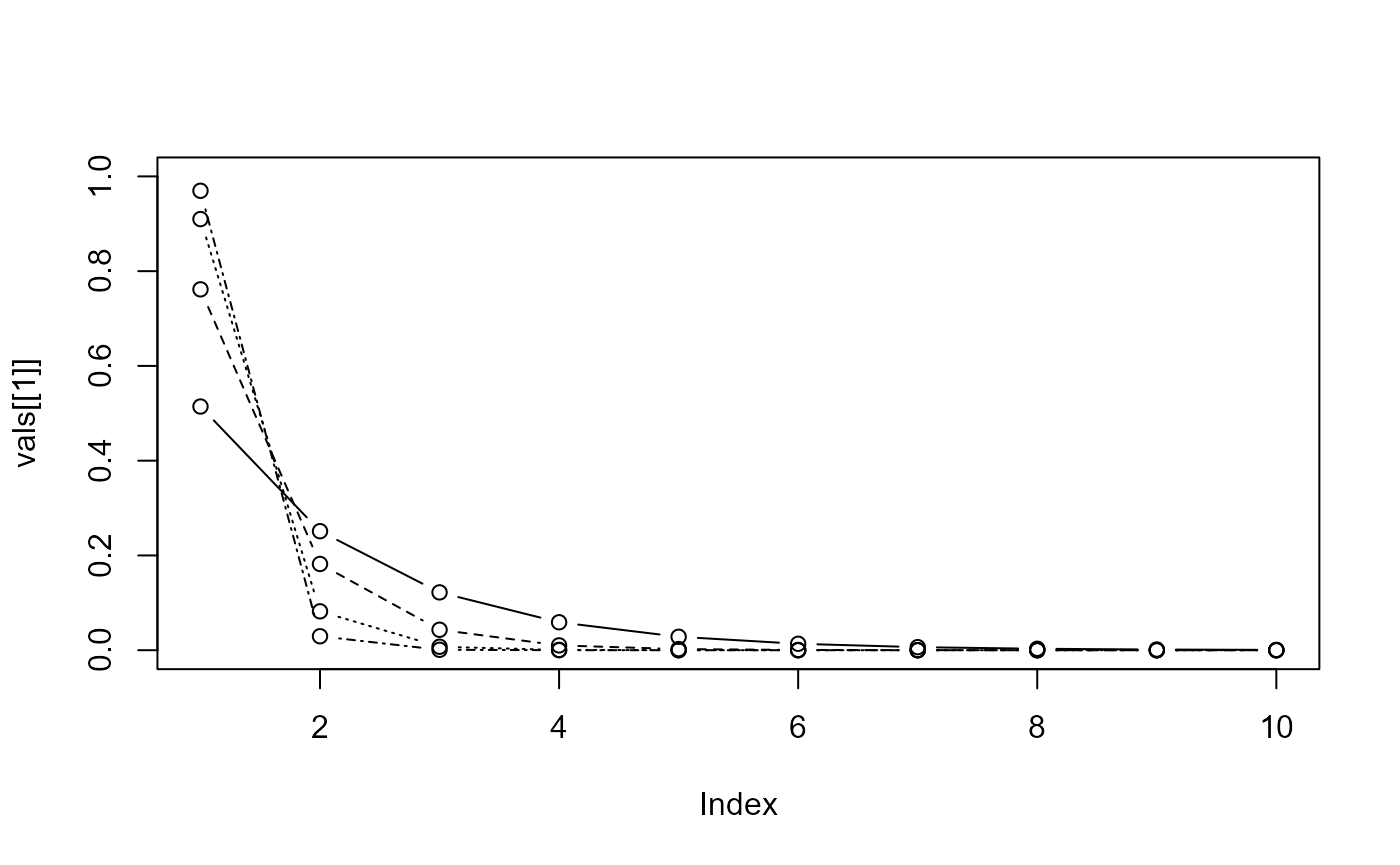
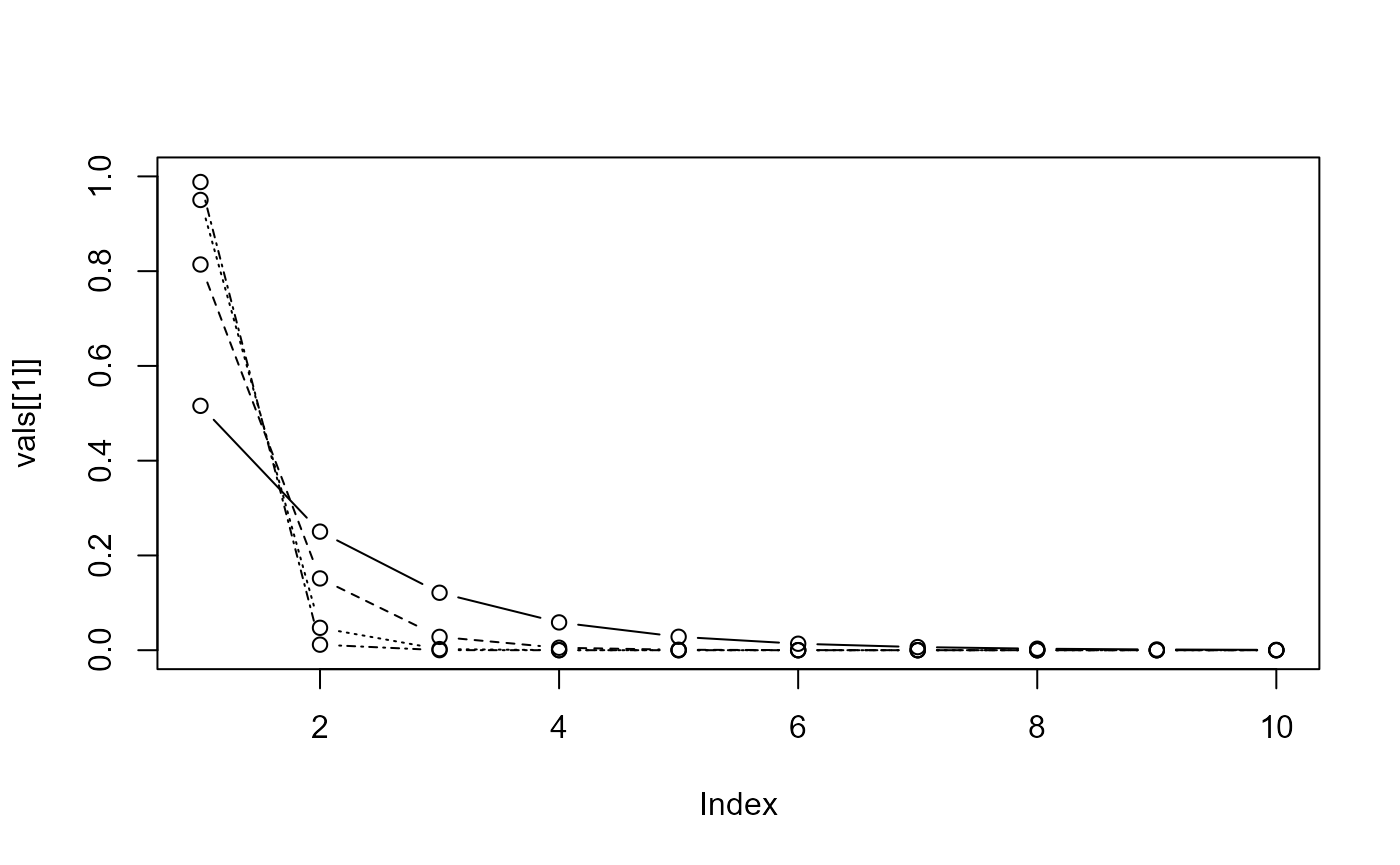
Update vignettes

Changed region(s): [[0.1843, 0.5306, 0.43, 0.7491], [0.1229, 0.1873, 0.1843, 0.4682]]

diff --git a/docs/articles/betabinprior.html b/docs/articles/betabinprior.html
@@ -67,7 +67,7 @@
                         <h4 data-toc-skip class="author">Ville
 Karhunen</h4>
             
-            <h4 data-toc-skip class="date">2022-10-13</h4>
+            <h4 data-toc-skip class="date">13.10.2022</h4>
       
       
       <div class="d-none name"><code>betabinprior.Rmd</code></div>
@@ -75,12 +75,31 @@ Karhunen</h4>
 
     
     
-<p>Finimom employs a beta-binomial prior for model dimension (model
-size):</p>
+<p>Finimom employs a beta-binomial prior for model dimension <span class="math inline">\(d\)</span>:</p>
+<p><span class="math display">\[
+\mathbb{P}(d = k | a, b) = \binom{p}{k}\frac{B(a + k, p - k + b)}{B(a,
+b)}, \quad a, b &gt; 0, \quad d = 1, \dots, K,
+\]</span></p>
+<p>where <span class="math inline">\(p\)</span> is the number of
+variants and <span class="math inline">\(K\)</span> the maximum model
+size. The priors of this form with <span class="math inline">\(a =
+1\)</span> and <span class="math inline">\(b = p^u\)</span> with <span class="math inline">\(u &gt; 1\)</span>, are discussed in Castillo
+(201x). The parameter <span class="math inline">\(u\)</span> here
+controls the amount of prior density for smaller models, with larger
+values of <span class="math inline">\(u\)</span> giving more prior mass
+to smaller models.</p>
+<p>Using LD matrix from an external dataset tend to increase the false
+positive rate. In our formulation, parameter <span class="math inline">\(u\)</span> provides a flexible way to adjust for
+this. The default values are <span class="math inline">\(u =
+1.5\)</span> when using in-sample LD matrix, and <span class="math inline">\(u = 1.75\)</span> when using out-of-sample LD
+matrix.</p>
+<p>We demonstrate the prior for model dimension using the example
+dataset:</p>
 <div class="sourceCode" id="cb1"><pre class="downlit sourceCode r">
 <code class="sourceCode R"><span><span class="kw"><a href="https://rdrr.io/r/base/library.html" class="external-link">library</a></span><span class="op">(</span><span class="va"><a href="https://vkarhune.github.io/finimom">finimom</a></span><span class="op">)</span></span>
 <span></span>
-<span><span class="va">p</span> <span class="op">&lt;-</span> <span class="fl">100</span></span>
+<span><span class="op">(</span><span class="va">p</span> <span class="op">&lt;-</span> <span class="fu"><a href="https://rdrr.io/r/base/length.html" class="external-link">length</a></span><span class="op">(</span><span class="va">exampledata</span><span class="op">$</span><span class="va">betahat</span><span class="op">)</span><span class="op">)</span></span>
+<span><span class="co">#&gt; [1] 363</span></span>
 <span></span>
 <span><span class="va">maxsize</span> <span class="op">&lt;-</span> <span class="fl">10</span></span>
 <span></span>
@@ -88,13 +107,13 @@ size):</p>
 <span><span class="va">u</span> <span class="op">&lt;-</span> <span class="fl">1.5</span></span>
 <span></span>
 <span><span class="va">val</span> <span class="op">&lt;-</span> <span class="fu"><a href="https://rdrr.io/r/base/Log.html" class="external-link">exp</a></span><span class="op">(</span><span class="fu"><a href="https://rdrr.io/r/base/lapply.html" class="external-link">sapply</a></span><span class="op">(</span><span class="fu"><a href="https://rdrr.io/r/base/seq.html" class="external-link">seq_len</a></span><span class="op">(</span><span class="va">maxsize</span><span class="op">)</span>, <span class="va">dbb</span>, p <span class="op">=</span> <span class="va">p</span>, a <span class="op">=</span> <span class="va">a</span>, b <span class="op">=</span> <span class="va">p</span><span class="op">^</span><span class="va">u</span><span class="op">)</span><span class="op">)</span></span>
-<span><span class="va">val</span> <span class="op">&lt;-</span> <span class="va">val</span><span class="op">/</span><span class="fu"><a href="https://rdrr.io/r/base/sum.html" class="external-link">sum</a></span><span class="op">(</span><span class="va">val</span><span class="op">)</span></span>
+<span><span class="op">(</span><span class="va">val</span> <span class="op">&lt;-</span> <span class="va">val</span><span class="op">/</span><span class="fu"><a href="https://rdrr.io/r/base/sum.html" class="external-link">sum</a></span><span class="op">(</span><span class="va">val</span><span class="op">)</span><span class="op">)</span></span>
+<span><span class="co">#&gt;  [1] 9.502616e-01 4.727099e-02 2.345333e-03 1.160564e-04 5.727772e-06</span></span>
+<span><span class="co">#&gt;  [6] 2.819359e-07 1.384076e-08 6.776590e-10 3.309028e-11 1.611478e-12</span></span>
 <span></span>
 <span><span class="fu"><a href="https://rdrr.io/r/graphics/plot.default.html" class="external-link">plot</a></span><span class="op">(</span><span class="va">val</span>, type <span class="op">=</span> <span class="st">"b"</span>, ylim <span class="op">=</span> <span class="fu"><a href="https://rdrr.io/r/base/c.html" class="external-link">c</a></span><span class="op">(</span><span class="fl">0</span>, <span class="fl">1</span><span class="op">)</span><span class="op">)</span></span></code></pre></div>
 <p><img src="betabinprior_files/figure-html/setup-1.png" width="700"></p>
-<p>The priors of form xyz are discussed in xyz. The parameter <span class="math inline">\(u\)</span> here controls the amount of prior
-density for smaller models. Larger values of <span class="math inline">\(u\)</span> apply more prior mass to smaller
-models:</p>
+<p>And for different values of <span class="math inline">\(u\)</span>:</p>
 <div class="sourceCode" id="cb2"><pre class="downlit sourceCode r">
 <code class="sourceCode R"><span></span>
 <span><span class="va">us</span> <span class="op">&lt;-</span> <span class="fu"><a href="https://rdrr.io/r/base/c.html" class="external-link">c</a></span><span class="op">(</span><span class="fl">1.01</span>, <span class="fl">1.25</span>, <span class="fl">1.5</span>, <span class="fl">1.75</span><span class="op">)</span></span>

diff --git a/docs/articles/nonlocalpriors.html b/docs/articles/nonlocalpriors.html
@@ -67,7 +67,7 @@
                         <h4 data-toc-skip class="author">Ville
 Karhunen</h4>
             
-            <h4 data-toc-skip class="date">2022-10-13</h4>
+            <h4 data-toc-skip class="date">13.10.2022</h4>
       
       
       <div class="d-none name"><code>nonlocalpriors.Rmd</code></div>
@@ -87,14 +87,14 @@ density</p>
 <p><span class="math display">\[
 f(\boldsymbol{\beta}|\tau, r) = \prod_{k =
 1}^d\frac{\tau^{r/2}}{\Gamma(r/2)}|\beta_k|^{-(r+1)}\exp \left(
--\frac{\tau}{\beta_k^2} \right)
+-\frac{\tau}{\beta_k^2} \right),
 \]</span></p>
-<p>The parameter <span class="math inline">\(\tau\)</span> controls the
-spread of the distribution away from the null value, and the parameter
-<span class="math inline">\(r\)</span> controls the tail behaviour of
-the distribution (Johnson, Rossell 2012). Here, we only consider the
-case of <span class="math inline">\(r = 1\)</span>, which leads to
-Cauchy-like tails in the distribution.</p>
+<p>with parameters <span class="math inline">\(\tau, r &gt; 0\)</span>.
+The parameter <span class="math inline">\(\tau\)</span> controls the
+spread of the distribution away from the null value, and <span class="math inline">\(r\)</span> controls the tail behaviour of the
+distribution (Johnson, Rossell 2012). Here, we only consider the case of
+<span class="math inline">\(r = 1\)</span>, which leads to Cauchy-like
+tails in the distribution.</p>
 <p>The choice of <span class="math inline">\(\tau\)</span> can be set
 such that <span class="math inline">\(\mathbb{P}(|\beta| &lt; q_\beta) =
 q\)</span>. For genetic analyses, Sanyal et al. (2019) suggested <span class="math inline">\(q_\beta = X\)</span> and <span class="math inline">\(q = 0.01\)</span>. We can obtain the corresponding
